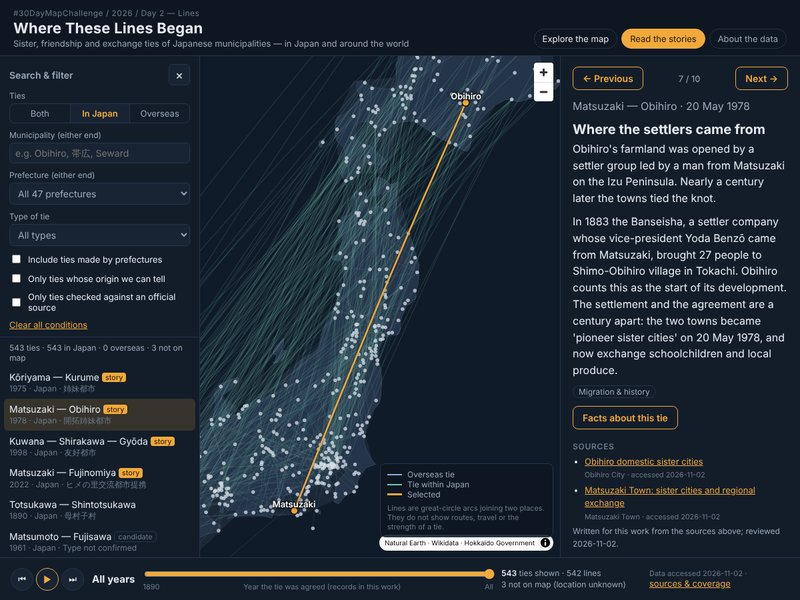
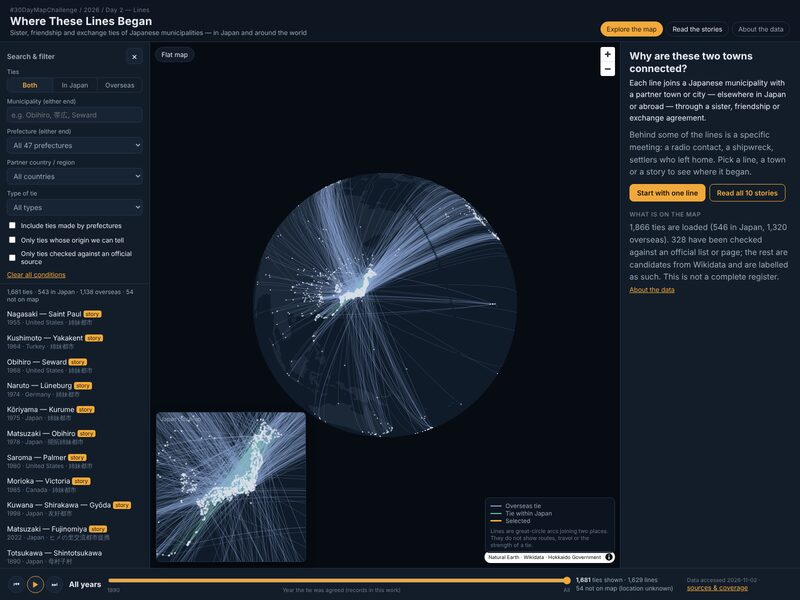
Reorder Day 1 maps and recapture Day 2 with the whole globe in view

diff --git a/CREDITS.md b/CREDITS.md
@@ -15,7 +15,7 @@ All screenshots are of my own apps, retrieved on 2026-11-04 (Day 5 on 2026-11-05
 | `dot-reveal.jpg` | [day1-dot-reveal](https://github.com/shinyanakashima/30daymapchallenge-2026day1-dot-reveal/blob/main/docs/screenshot.png) | Natural Earth (public domain) |
 | `station-history.jpg` | [day1-station-history](https://github.com/shinyanakashima/30daymapchallenge-2026day1-station-history/blob/main/docs/screenshot.png) | MLIT N05 railway data (noncommercial), GSI Tiles |
 | `snow-calendar.jpg` | [day1-snow-calendar](https://github.com/shinyanakashima/30daymapchallenge-2026day1-snow-calendar/blob/main/docs/screenshot.png) | Japan Meteorological Agency |
-| `bonds.jpg` | [day2-bonds](https://github.com/shinyanakashima/30daymapchallenge-2026day2-bonds/blob/main/docs/screenshot.png) | Wikidata (CC0), municipal websites |
+| `bonds.jpg` | [live app](https://shinyanakashima.github.io/30daymapchallenge-2026day2-bonds/), captured 2026-11-05 | Natural Earth (public domain), Wikidata (CC0), Hokkaido Government and municipal websites |
 | `cutout.jpg` | [day3-cutout](https://github.com/shinyanakashima/30daymapchallenge-2026day3-cutout/blob/main/docs/screenshot.png) | PLATEAU / Flateau, MLIT N03 (CC BY 4.0), GSI Tiles |
 | `clusters.jpg` | [live app](https://shinyanakashima.github.io/30daymapchallenge-2026day4-clusters/) | MLIT National Land Numerical Information, tourism resources 2010/2014 (noncommercial); Sentinel-2 cloudless - https://s2maps.eu by EOX IT Services GmbH (Contains modified Copernicus Sentinel data 2016), CC BY 4.0; GSI Vector Tiles |
 | `hidakasanmyaku.jpg` | [day5-hidakasanmyaku](https://github.com/shinyanakashima/30daymapchallenge-2026day5-hidakasanmyaku/blob/main/docs/screenshot.png) | GSI Elevation Tiles (DEM10B) and Major Mountain Elevations; national park boundary from the Ministry of the Environment Biodiversity Map, processed |

diff --git a/docs/2026-plan.md b/docs/2026-plan.md
@@ -10,9 +10,9 @@
 
 **企画・進捗**：北海道を題材とした3作品を公開。点描、駅の時系列、雪の暦を、それぞれ別の点表現で制作。
 
-- **何点で分かる？**（公開済み）：北海道の海岸線を点で少しずつ描き、何点目で北海道だと分かるかを試す。 [作品を見る](https://shinyanakashima.github.io/30daymapchallenge-2026day1-dot-reveal/) [GitHub](https://github.com/shinyanakashima/30daymapchallenge-2026day1-dot-reveal)
-- **駅のあった北海道**（公開済み）：1950年から2025年までの北海道の駅の開業・改称・廃止を、年を追って地図で見る。 [作品を見る](https://shinyanakashima.github.io/30daymapchallenge-2026day1-station-history/) [GitHub](https://github.com/shinyanakashima/30daymapchallenge-2026day1-station-history)
 - **冬は、北から来る？**（公開済み）：北海道22地点の初雪、積雪、根雪の時期を並べて比べる。 [作品を見る](https://shinyanakashima.github.io/30daymapchallenge-2026day1-snow-calendar/) [GitHub](https://github.com/shinyanakashima/30daymapchallenge-2026day1-snow-calendar)
+- **駅のあった北海道**（公開済み）：1950年から2025年までの北海道の駅の開業・改称・廃止を、年を追って地図で見る。 [作品を見る](https://shinyanakashima.github.io/30daymapchallenge-2026day1-station-history/) [GitHub](https://github.com/shinyanakashima/30daymapchallenge-2026day1-station-history)
+- **何点で分かる？**（公開済み）：北海道の海岸線を点で少しずつ描き、何点目で北海道だと分かるかを試す。 [作品を見る](https://shinyanakashima.github.io/30daymapchallenge-2026day1-dot-reveal/) [GitHub](https://github.com/shinyanakashima/30daymapchallenge-2026day1-dot-reveal)
 
 ## Day 2 Lines
 
